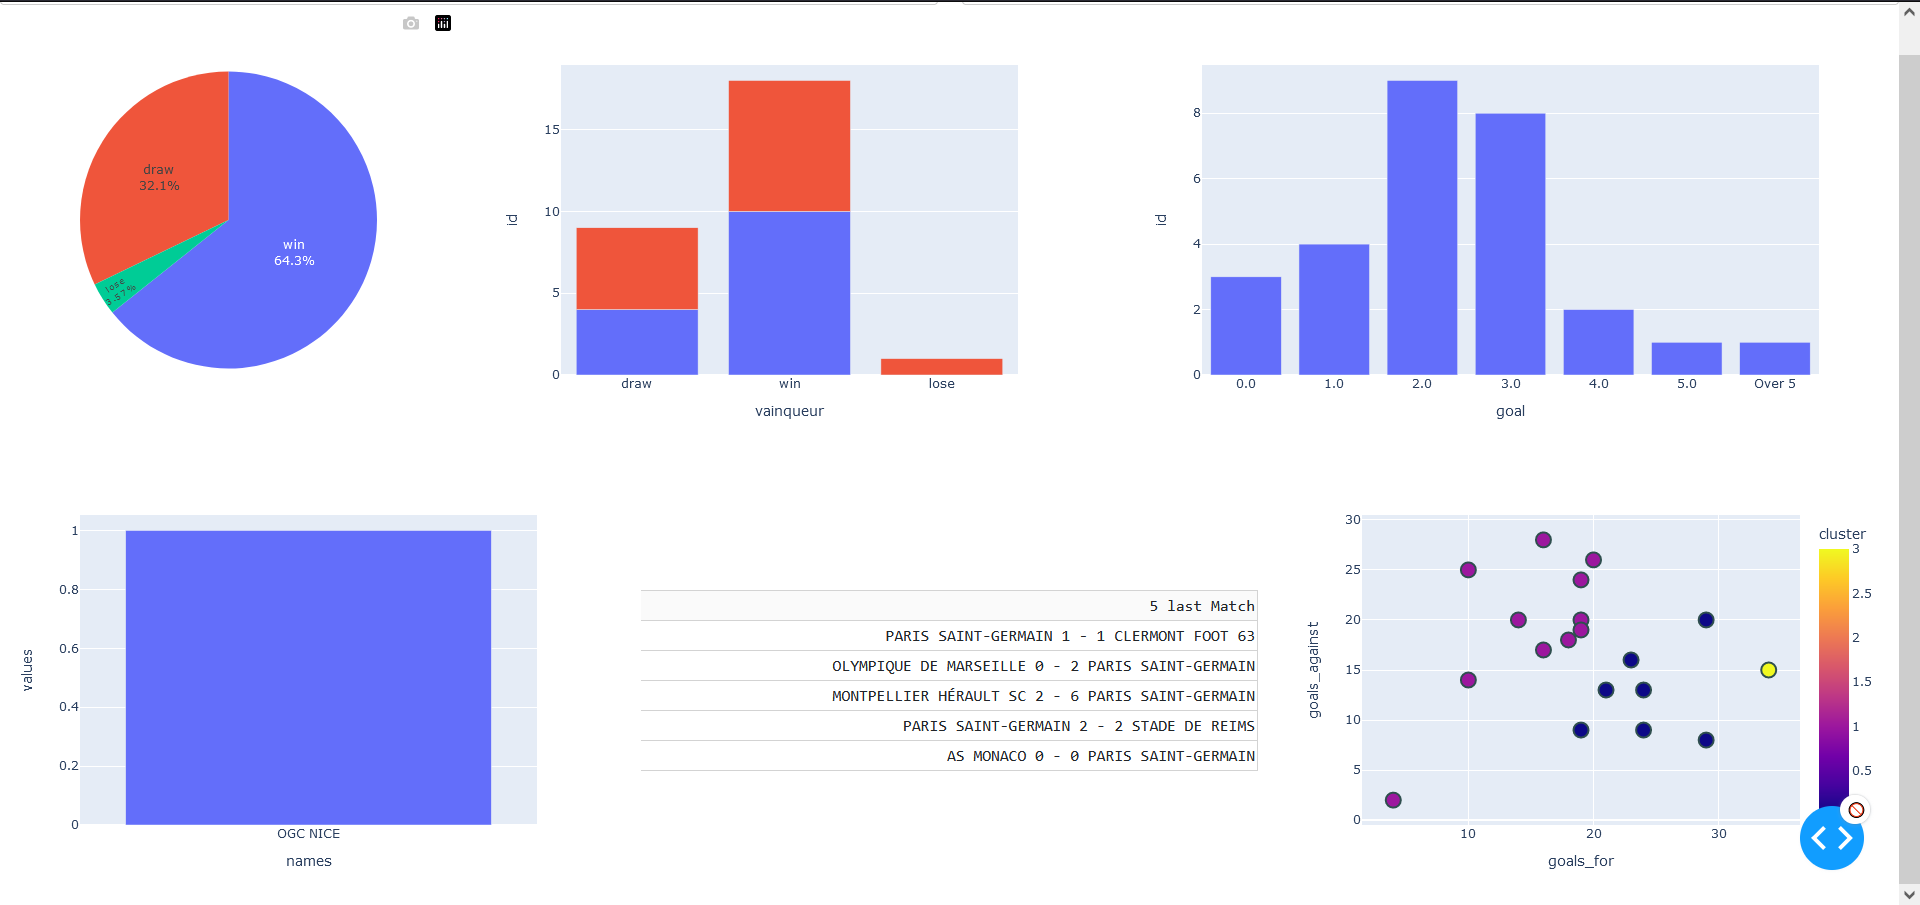
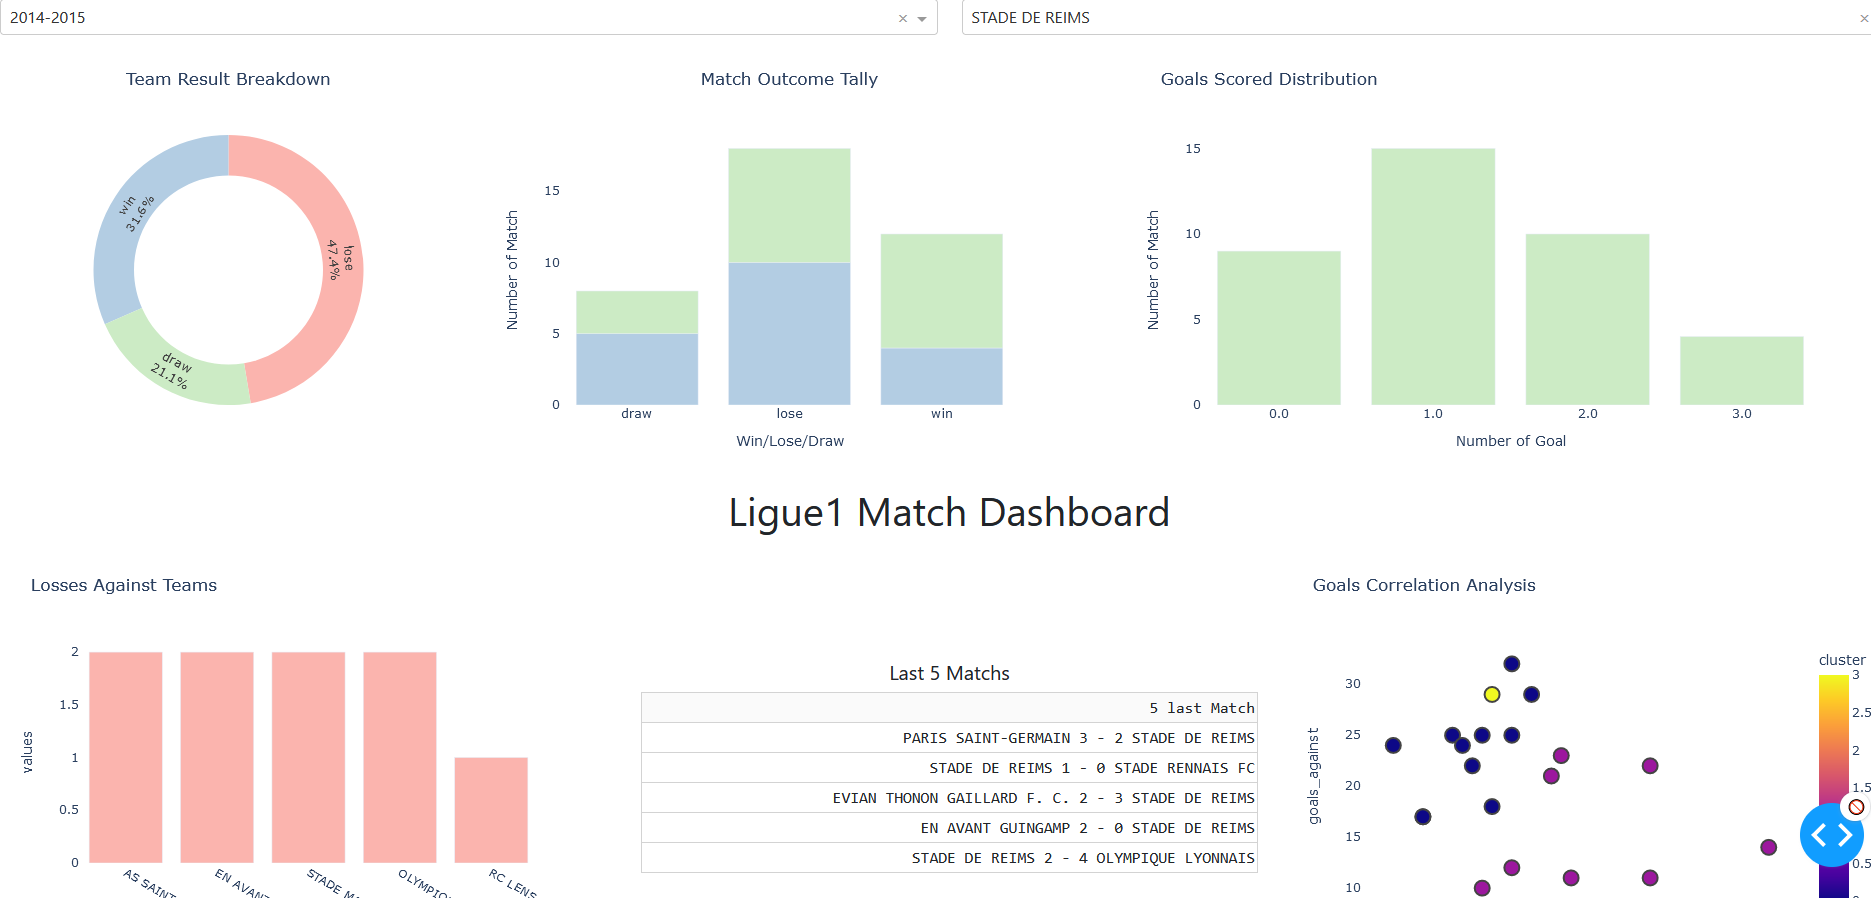
[000002 Update Color and add Titles for Graphs]

diff --git a/__main__.py b/__main__.py
@@ -14,8 +14,8 @@ df = pd.read_json('output/output.json').dropna(subset='awayScore')
 
 df['homeScore'] = df['homeScore'].astype(float)
 
-season = "2014-2015"
-team = "STADE DE REIMS"
+# season = "2014-2015"
+# team = "STADE DE REIMS"
 
 app = dash.Dash(__name__, external_stylesheets=[dbc.themes.BOOTSTRAP])
 
@@ -28,14 +28,17 @@ app.layout = html.Div([
         )),
         dbc.Col(dcc.Dropdown(id="dropdown_Team"))
     ]),
+    
     dbc.Row([
         dbc.Col([dcc.Graph(id="graph1")],width=3),
         dbc.Col([dcc.Graph(id="graph2")],width=4),
         dbc.Col([dcc.Graph(id='graph3')],width=5)
     ]),
+    html.H1('Ligue1 Match Dashboard',style={"text-align":'center'}),
     dbc.Row([
         dbc.Col([dcc.Graph(id="graph4")],width=4),
-        dbc.Col(dash_table.DataTable(id='table1',style_table={'overflowX': 'auto'}),width=4,style={'margin': 'auto'}),
+        dbc.Col([html.H5('Last 5 Matchs',style={"text-align":"center"}),
+                 dash_table.DataTable(id='table1',style_table={'overflowX': 'auto','text-align':'center'})],width=4,style={'margin': 'auto'}),
         dbc.Col([dcc.Graph(id="graph5")],width=4)
 
     ])
@@ -75,13 +78,16 @@ def dtm(season,team):
     
     pieData = dtm.groupby(['vainqueur'],as_index=False).count()
     pieData = pieData[['vainqueur','id']].rename(columns={'id':'value'})
-    pieChart = px.pie(pieData,names='vainqueur',values='value').update_layout(showlegend=False,title_x=0.5).update_traces(textposition='inside', textinfo='percent+label')
+    pieChart = px.pie(pieData,names='vainqueur',values='value',hole=0.7,color_discrete_sequence=px.colors.qualitative.Pastel1,title="Team Result Breakdown")\
+                .update_layout(showlegend=False,title_x=0.5)\
+                .update_traces(textposition='inside', textinfo='percent+label')
     
     dtm.loc[dtm['homeTeam']==team,'domicile'] = 'Home'
     dtm.loc[dtm['homeTeam']!=team,'domicile'] = 'Away'
     barData = dtm.groupby(['vainqueur','domicile'],as_index=False).count()
-    barData = barData[['vainqueur','domicile','id']]
-    barChart = px.bar(barData,x='vainqueur',y='id',color="domicile").update_layout(showlegend=False,title_x=0.5)
+    barData = barData[['vainqueur','domicile','id']].rename(columns={"id":"Number of Match",'vainqueur':"Win/Lose/Draw"})
+    barChart = px.bar(barData,x='Win/Lose/Draw',y='Number of Match',color="domicile",title="Match Outcome Tally",color_discrete_sequence=[px.colors.qualitative.Pastel1[1],px.colors.qualitative.Pastel1[2]])\
+                 .update_layout(showlegend=False,title_x=0.5).update_layout({'plot_bgcolor': 'rgba(0, 0, 0, 0)','paper_bgcolor': 'rgba(0, 0, 0, 0)'})
 
     dtm.loc[(dtm['homeTeam']==team) & (dtm['homeScore']>5),'goal'] = "Over 5"
     dtm.loc[(dtm['homeTeam']==team) & (dtm['goal'].isna()),'goal'] = dtm['homeScore']
@@ -89,13 +95,16 @@ def dtm(season,team):
     dtm.loc[(dtm['awayTeam']==team) & (dtm['goal'].isna()),'goal'] = dtm['awayScore']
     dtm['goal'] = dtm['goal'].astype(str)
     goalData = dtm.groupby(['goal'],as_index=False).count()
-    goalChart = px.bar(goalData,x='goal',y='id')
+    goalData = goalData[['goal','id']].rename(columns={"goal":"Number of Goal","id":'Number of Match'})
+    goalChart = px.bar(goalData,x='Number of Goal',y='Number of Match',title="Goals Scored Distribution",color_discrete_sequence=[px.colors.qualitative.Pastel1[2]])\
+                  .update_layout({'plot_bgcolor': 'rgba(0, 0, 0, 0)','paper_bgcolor': 'rgba(0, 0, 0, 0)'}) 
 
     losingGame = dtm[dtm['vainqueur']=="lose"]
     loser = losingGame['homeTeam'].values.tolist() + losingGame['awayTeam'].values.tolist()
     loserDt= pd.DataFrame.from_dict(Counter(loser),orient="index").reset_index().rename(columns={'index':'names',0:'values'})
     loserDt = loserDt[loserDt['names']!=team].sort_values(by='values',ascending=False).head(5)
-    loseChart = px.bar(loserDt,x='names',y='values')
+    loseChart = px.bar(loserDt,x='names',y='values',title='Losses Against Teams',color_discrete_sequence=[px.colors.qualitative.Pastel1[0]])\
+                  .update_layout({'plot_bgcolor': 'rgba(0, 0, 0, 0)','paper_bgcolor': 'rgba(0, 0, 0, 0)'})
 
     last5DaysResults = dtm.sort_values(by=['matchDay'],ascending=False).head(5)
     last5DaysResults['5 last Match'] = last5DaysResults['homeTeam'] + " " +last5DaysResults['homeScore'].astype(int).astype('str') + " - " + last5DaysResults['awayScore'].astype(int).astype('str') + " " +last5DaysResults['awayTeam']
@@ -120,9 +129,11 @@ def dtm(season,team):
     team_stats['goal_difference'] = team_stats['goals_for'] - team_stats['goals_against']
     team_stats.reset_index(inplace=True)
     team_stats.loc[team_stats['homeTeam']==team,'cluster'] = 3
-    ClusterTeams = px.scatter(team_stats, x='goals_for', y='goals_against', color='cluster',hover_name='homeTeam')
+    ClusterTeams = px.scatter(team_stats, x='goals_for', y='goals_against', color='cluster',hover_name='homeTeam',title="Goals Correlation Analysis",color_discrete_sequence=px.colors.qualitative.Pastel1)
     # Ajustement du style des marqueurs
-    ClusterTeams.update_layout(showlegend=False).update_traces(marker=dict(size=15, line=dict(width=2, color='DarkSlateGrey')))
+    ClusterTeams.update_layout(showlegend=False)\
+                .update_layout({'plot_bgcolor': 'rgba(0, 0, 0, 0)','paper_bgcolor': 'rgba(0, 0, 0, 0)'})\
+                .update_traces(marker=dict(size=15, line=dict(width=2)))
 
     return pieChart,barChart,goalChart,loseChart,tableRecom,ClusterTeams
 
